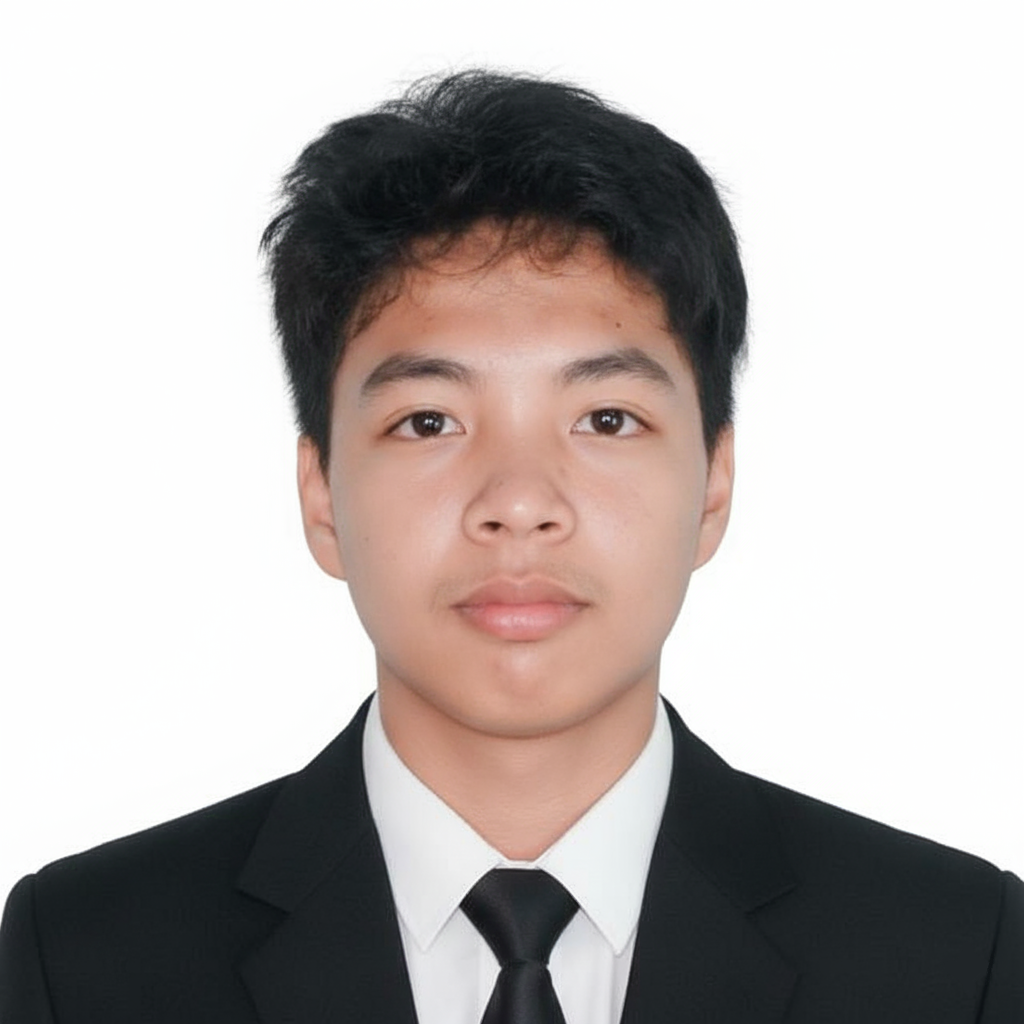
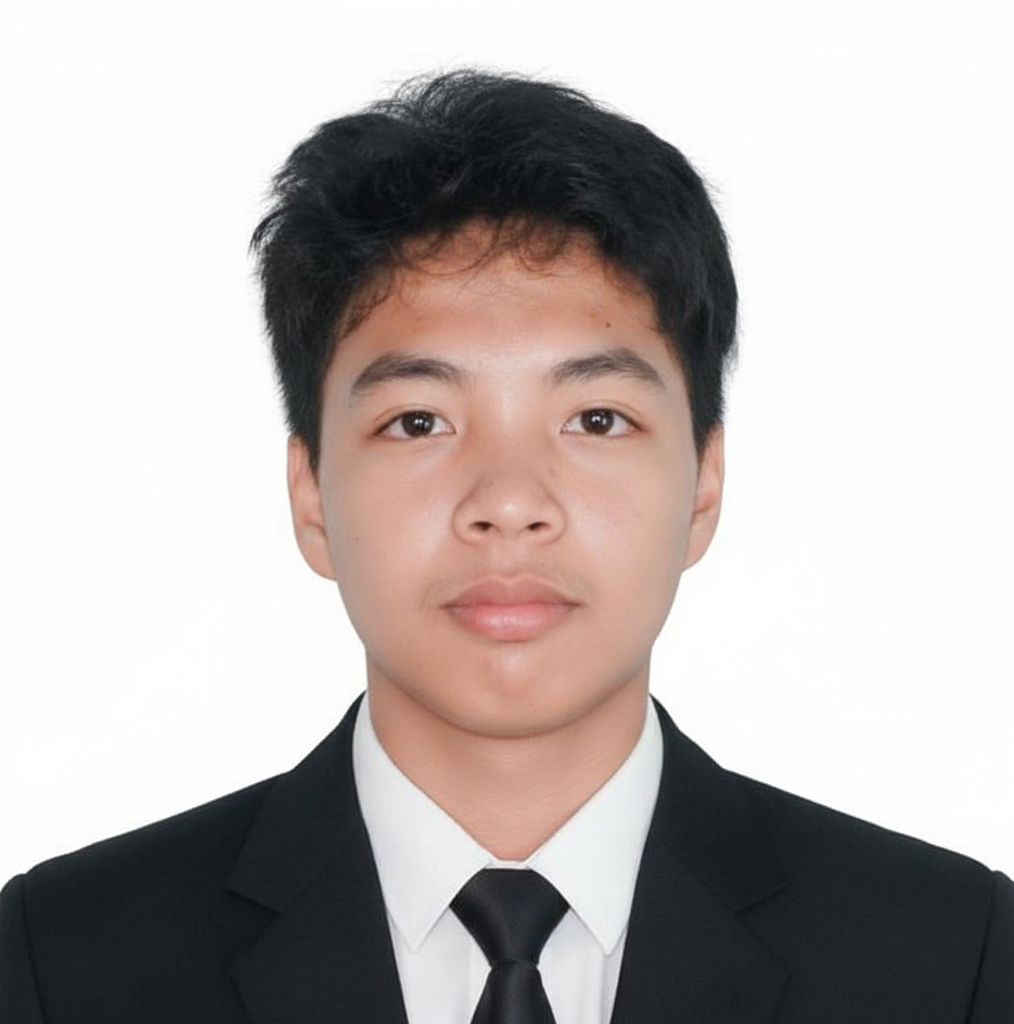
feat: pixel card in front page

diff --git a/styles.css b/styles.css
@@ -199,35 +199,43 @@ section {
   border-radius: 50%;
 }
 
-/* Hero photo reveal effect: Spider-Man shows by default, hovering
-   crossfades to the real photo underneath, like an unmasking */
+/* Hero photo pixel-dissolve effect: a grid of Spider-Man tiles sits
+   over the real photo. Hovering fades each tile out with a slight
+   random delay (set inline by script.js), so it dissolves away in a
+   pixelated mosaic instead of a plain crossfade or wipe. */
 .hero-flip-photo {
   position: relative;
 }
 
-.hero-photo {
-  position: absolute;
-  top: 0;
-  left: 0;
-  transition: opacity 400ms ease;
-}
-
-.hero-photo-front {
-  opacity: 1;
-  z-index: 2;
-}
-
-.hero-photo-back {
-  opacity: 0;
+.hero-photo-base {
+  position: relative;
   z-index: 1;
 }
 
-.hero-flip-photo:hover .hero-photo-front {
-  opacity: 0;
+.pixel-grid {
+  position: absolute;
+  inset: 0;
+  z-index: 2;
+  display: grid;
+  grid-template-columns: repeat(8, 1fr);
+  grid-template-rows: repeat(8, 1fr);
+  border-radius: 50%;
+  overflow: hidden;
+  pointer-events: none;
 }
 
-.hero-flip-photo:hover .hero-photo-back {
+.pixel-tile {
+  background-image: var(--pixel-bg);
+  background-size: 800% 800%;
+  background-repeat: no-repeat;
+  transition: opacity 450ms ease, transform 450ms ease;
   opacity: 1;
+  transform: scale(1);
+}
+
+.hero-flip-photo:hover .pixel-tile {
+  opacity: 0;
+  transform: scale(0.4);
 }
 
 .section__text {

diff --git a/script.js b/script.js
@@ -5,6 +5,27 @@ function toggleMenu() {
   icon.classList.toggle("open");
 }
 
+// Builds the pixel-dissolve tile grid over the hero photo. Each
+// tile shows one slice of the Spider-Man image (via background
+// position/size), and gets a small random transition-delay so the
+// tiles fade out at slightly different times on hover, instead of
+// all at once.
+const pixelGrid = document.getElementById("pixel-grid");
+if (pixelGrid) {
+  const cols = 8;
+  const rows = 8;
+
+  for (let r = 0; r < rows; r++) {
+    for (let c = 0; c < cols; c++) {
+      const tile = document.createElement("div");
+      tile.className = "pixel-tile";
+      tile.style.backgroundPosition = `${(c * 100) / (cols - 1)}% ${(r * 100) / (rows - 1)}%`;
+      tile.style.transitionDelay = `${Math.random() * 250}ms`;
+      pixelGrid.appendChild(tile);
+    }
+  }
+}
+
 // Show More / Show Less toggle for certificates
 const showMoreBtn = document.getElementById("show-more-btn");
 if (showMoreBtn) {

diff --git a/index.html b/index.html
@@ -39,9 +39,9 @@
       </div>
     </nav>
     <section id="profile">
-      <div class="section__pic-container hero-flip-photo">
-        <img src="./images/spider.png" alt="Mystery photo" class="hero-photo hero-photo-front" />
-        <img src="./images/froilan.png" alt="Froilan Ocubillo profile picture" class="hero-photo hero-photo-back" />
+      <div class="section__pic-container hero-flip-photo" id="hero-pixel-photo">
+        <img src="./images/froilan.png" alt="Froilan Ocubillo profile picture" class="hero-photo-base" />
+        <div class="pixel-grid" id="pixel-grid" style="--pixel-bg: url('./images/spider.png');"></div>
       </div>
       <div class="section__text">
         <p class="section__text__p1">Hello, I'm</p>
